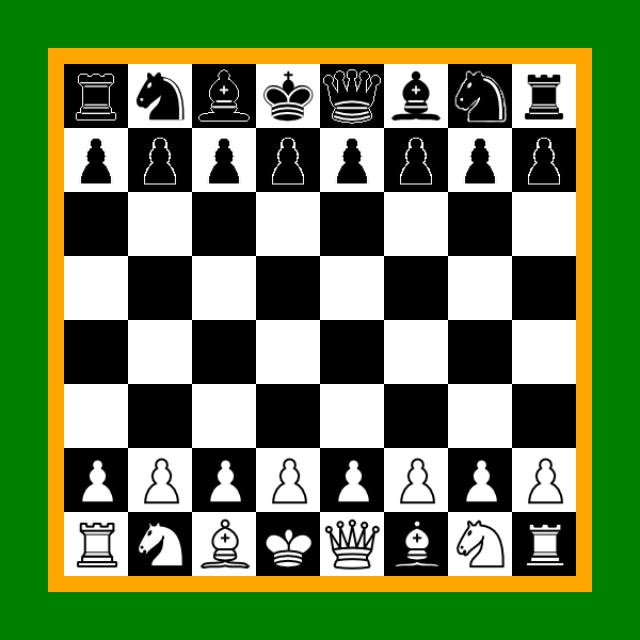
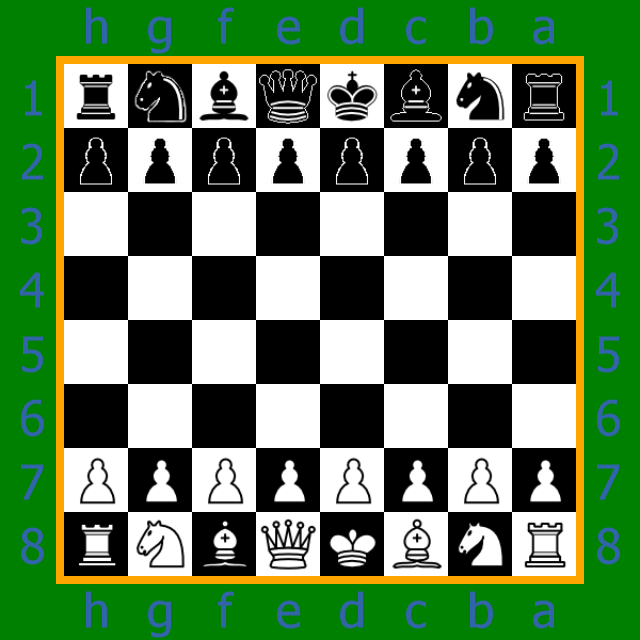
game class

diff --git a/bot.js b/bot.js
@@ -1,92 +1,173 @@
-const { Client, Intents } = require("discord.js");
-const { createCanvas, loadImage, Image , Canvas } = require('canvas')
-const config = require("./config.json");
-const fs = require('fs')
-const games = require("./games.json");
-require('dotenv').config();
+const { Client, Intents } = require("discord.js")
+const { createCanvas, loadImage, Image, Canvas } = require("canvas")
+const config = require("./config.json")
+const fs = require("fs")
+const games = require("./games.json")
+require("dotenv").config()
 
-const bot = new Client({intents:[Intents.FLAGS.GUILDS,Intents.FLAGS.GUILD_MESSAGES]});
+const bot = new Client({
+    intents: [Intents.FLAGS.GUILDS, Intents.FLAGS.GUILD_MESSAGES]
+})
+
+class game {
+    constructor(j1ID, j2ID) {
+        this.j1 = j1ID
+        this.j2 = j2ID
+        this.boardj1 = games.default
+        this.boardj2 = this.boardj1
+        this.turns = 0
+        this.updatej2()
+    }
+    updatej2() {
+        for (let x = 0; x < 8; x++) {
+            for (let y = 0; y < 8; y++) {
+                this.boardj2[y][x] = this.boardj1[7 - y][7 - x]
+            }
+        }
+    }
+}
 
 let pieces = {}
 
-for (let i = 0; i<=12;i++){
+for (let i = 0; i <= 12; i++) {
     pieces[i] = new Image()
     pieces[i].src = `./pieces/${i}.png`.toString()
 }
 
 bot.on("ready", () => {
-    console.log('Je suis pr\xEAt \xE0 \xEAtre utilis\xE9 !, '+ bot.user.tag);
-});
+    console.log("Je suis pr\xEAt \xE0 \xEAtre utilis\xE9 !, " + bot.user.tag)
+})
 
 bot.on("messageCreate", async (message) => {
-    console.log(message.content);
-	if (message.content.startsWith(config.bot.prefix) && !message.author.bot ) {
+    console.log(message.content)
+    if (message.content.startsWith(config.bot.prefix) && !message.author.bot) {
+        const args = message.content.slice(config.bot.prefix.length).trim().split(/ +/g)
+        const command = args.shift().toLowerCase()
 
-		const args = message.content.slice(config.bot.prefix.length).trim().split(/ +/g);
-		const command = args.shift().toLowerCase();
-
-		switch (command) {
+        switch (command) {
             case "ping":
-                message.reply("Pong!");
-            break;
-        }
-    }
+                message.reply("Pong!")
+                break
 
-    if (message.content == "game") {
-        for (let i = 0;i<games.games.size();i++){
-            if (games.games[i].j1 == message.author.id.toString()){
+            case "test":
+                games.games[0].j1 = 0
+                console.log(games.games[0].j1)
+                break
 
-            }else if (games.games[i].j2 == message.author.id.toString()){
+            case "game":
+                let gameID
+                let player
+                for (let i = 0; i < games.games.length; i++) {
+                    if (games.games[i].j1 == message.author.id.toString()) {
+                        gameID = i
+                        player = 1
+                    } else if (games.games[i].j2 == message.author.id.toString()) {
+                        gameID = i
+                        player = 2
+                    }
+                }
 
-            }
+                if (gameID == undefined) {
+                    if (args[0] == undefined) {
+                        message.reply("Merci de mentionner la personne à défier")
+                    } else if (message.mentions.users.first() == undefined) {
+                        message.reply("Mention invalide")
+                    } else if (message.mentions.users.first().id == undefined) {
+                        message.reply("Vous ne pouvez pas vous défier vous même")
+                    } else if (message.mentions.users.first().bot || message.mentions.users.first().system) {
+                        message.reply("Vous ne pouvez pas défier un bot")
+                    } else {
+                        if (Math.random() < 0.5) {
+                            test = new game(message.author.id, message.mentions.users.first().id)
+                        } else {
+                            test = new game(message.mentions.users.first().id, message.author.id)
+                        }
+                        console.log(games.games.push(test))
+                        console.log(test)
+                    }
+                }
+                break
         }
     }
 
     if (message.content == "board") {
         generateBoard(message.author.id)
-        
+
         message.channel.send({
-            files: [{
-                attachment: `./boards/board${message.author.id}.png`,
-                name: 'board.png',
-                description: 'Plateau de Jeu'
-            }]
+            files: [
+                {
+                    attachment: `./boards/board${message.author.id}.png`,
+                    name: "board.png",
+                    description: "Plateau de Jeu"
+                }
+            ]
         })
     }
+
+    //fs.writeFileSync("./games.json",JSON.stringify(games,null,1))
 })
 
-function generateBoard(gameID){
-    const board = createCanvas(config.board.size,config.board.size)
+function generateBoard(gameID, player) {
+    const board = createCanvas(config.board.size, config.board.size)
     const ctx = board.getContext("2d")
 
     ctx.beginPath()
     ctx.fillStyle = "green"
-    ctx.fillRect(0,0,board.width,board.height)
-    ctx.lineWidth = board.width/20
+    ctx.fillRect(0, 0, board.width, board.height)
+    ctx.lineWidth = board.width / 40
     ctx.strokeStyle = "orange"
-    ctx.rect(board.width/10,board.height/10,8*board.width/10,8*board.height/10)
-    ctx.stroke()
-    for (let x=0;x<8;x++){
-        for (let y=0;y<8;y++){
-            if ((x+y)%2==1){
-                ctx.fillStyle = "white"
-            }else{
-                ctx.fillStyle = "black"
-            }
+    ctx.strokeRect(board.width / 10, board.height / 10, (8 * board.width) / 10, (8 * board.height) / 10)
 
-            ctx.fillRect((x+1)*(board.width/10),(y+1)*(board.height/10),board.width/10,board.height/10)
+    ctx.textAlign = "center"
+    ctx.textBaseline = "middle"
+    ctx.fillStyle = "rgb(50, 100, 170)"
+    ctx.lineWidth = 1
+    ctx.font = `${(1.5 * board.width) / 20}px sans-serif`
+    let letters = ["a", "b", "c", "d", "e", "f", "g", "h"]
 
-            ctx.drawImage(pieces[games.default[y][x]],board.width/10*(1+x),board.height/10*(1+y),board.width/10,board.height/10)
+    if (player == 1) {
+        for (let i = 0; i < 8; i++) {
+            ctx.fillText(letters[i], ((2 * i + 3) * board.width) / 20, (1.5 * board.height) / 40)
+            ctx.fillText(letters[i], ((2 * i + 3) * board.width) / 20, board.height - board.height / 20)
+            ctx.fillText((8 - i).toString(), board.height / 20, ((2 * i + 3) * board.height) / 20)
+            ctx.fillText((8 - i).toString(), board.height - board.height / 20, ((2 * i + 3) * board.height) / 20)
+        }
+    } else {
+        for (let i = 0; i < 8; i++) {
+            ctx.fillText(letters[7 - i], ((2 * i + 3) * board.width) / 20, (1.5 * board.height) / 40)
+            ctx.fillText(letters[7 - i], ((2 * i + 3) * board.width) / 20, board.height - board.height / 20)
+            ctx.fillText((i + 1).toString(), board.height / 20, ((2 * i + 3) * board.height) / 20)
+            ctx.fillText((i + 1).toString(), board.height - board.height / 20, ((2 * i + 3) * board.height) / 20)
         }
     }
 
-    fs.readFile(`./boards/board${gameID}.png`, 'utf8', (err, data) => {
-        const content = data;
-        //console.log(content);
-    })
+    for (let x = 0; x < 8; x++) {
+        for (let y = 0; y < 8; y++) {
+            if ((x + y) % 2 == 0) {
+                ctx.fillStyle = "white"
+            } else {
+                ctx.fillStyle = "black"
+            }
 
-    const buffer = board.toBuffer("image/png");
-    fs.writeFileSync(`./boards/board${gameID}.png`, buffer);
+            ctx.fillRect(
+                (x + 1) * (board.width / 10),
+                (y + 1) * (board.height / 10),
+                board.width / 10,
+                board.height / 10
+            )
+
+            ctx.drawImage(
+                pieces[games.default[y][x]],
+                (board.width / 10) * (1 + x),
+                (board.height / 10) * (1 + y),
+                board.width / 10,
+                board.height / 10
+            )
+        }
+    }
+
+    const buffer = board.toBuffer("image/png")
+    fs.writeFileSync(`./boards/board${gameID}.png`, buffer)
 }
 
 bot.login(process.env.BOT_TOKEN)
